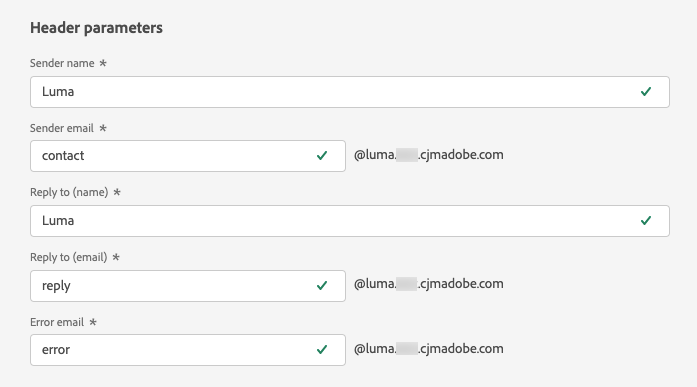
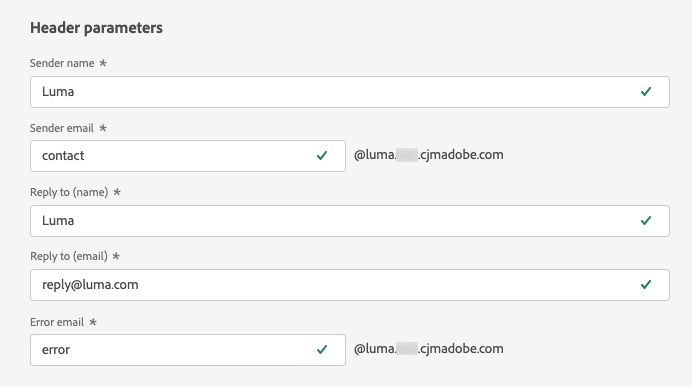
22 w45 (#1068)
* Admin updates

incl. Reply to email address new subsection

* fix video description

* small admin fixes

* Feedback + small changes on Reply email

* Update email-settings.md

PM updates

* Home Table look

diff --git a/help/using/configuration/email-settings.md b/help/using/configuration/email-settings.md
@@ -15,6 +15,16 @@ Define the email settings in the dedicated section of the channel surface (i.e. 
 
 ![](assets/preset-email-settings.png)
 
+The email surface configuration gets picked up for sending communications following the logic below:
+
+* For batch and burst journeys, it does not apply to batch or burst execution that had already started before the email surface configuration is made. The changes will be picked up at the next recurrence or new execution.
+
+* For transactional messages, the change is picked up immediately for the next communication (up to five-minute delay).
+
+>[!NOTE]
+>
+>The updated email surface settings will be automatically picked up in the journey(s) or campaign(s) where the surface is used.
+
 ## Type of email {#email-type}
 
 >[!CONTEXTUALHELP]
@@ -90,25 +100,39 @@ Learn more on adding a header unsubscribe link to your messages in [this section
 
 In the **[!UICONTROL Header parameters]** section, enter the sender names and email addresses associated to the type of emails sent using that surface.
 
->[!CAUTION]
->
->The email addresses must use the current selected [delegated subdomain](about-subdomain-delegation.md).
-
 * **[!UICONTROL Sender name]**: The name of the sender, such as your brand's name.
 
-* **[!UICONTROL Sender email]**: The email address you want to use for your communications. For example, if the delegated subdomain is *marketing.luma.com*, you can use *contact@marketing.luma.com*.
+* **[!UICONTROL Sender email]**: The email address you want to use for your communications.
 
 * **[!UICONTROL Reply to (name)]**: The name that will be used when the recipient clicks the **Reply** button in their email client software.
 
-* **[!UICONTROL Reply to (email)]**: The email address that will be used when the recipient clicks the **Reply** button in their email client software. You must use an address defined on the delegated subdomain (for example, *reply@marketing.luma.com*), otherwise the emails will be dropped.
+* **[!UICONTROL Reply to (email)]**: The email address that will be used when the recipient clicks the **Reply** button in their email client software. [Learn more](#reply-to-email)
 
 * **[!UICONTROL Error email]**: All errors generated by ISPs after a few days of mail being delivered (asynchronous bounces) are received on this address.
+
+>[!CAUTION]
+>
+>The **[!UICONTROL Sender email]** and **[!UICONTROL Error email]** addresses must use the current selected [delegated subdomain](about-subdomain-delegation.md). For example, if the delegated subdomain is *marketing.luma.com*, you can use *contact@marketing.luma.com* and *error@marketing.luma.com*.
 
 ![](assets/preset-header.png)
 
 >[!NOTE]
 >
 >Addresses must begin with a letter (A-Z) and can only contain alpha-numeric characters. You can also use underscore `_`, dot`.` and hyphen `-` characters.
+
+### Reply to email {#reply-to-email}
+
+When defining the **[!UICONTROL Reply to (email)]** address, you can specify any email address provided it is a valid address, in correct format and without any typo.
+
+To ensure proper reply management, follow the recommandations below:
+
+* The inbox used for replies will receive all reply emails, including out-of-office notifications and challenge responses, thus make sure you have a manual or automated process in place to process the emails landing into this inbox.
+
+* Ensure the dedicated inbox has enough reception capacity to receive all the reply emails that are sent using the email surface. If the inbox returns bounces, some replies from your customers may not be received.
+
+* Replies must be processed keeping in mind privacy and compliance obligations as they may contain personally identifiable information (PII).
+
+* Do not mark messages as spam in the reply inbox, as it will impact all the other replies sent to this address.
 
 ### Forward email {#forward-email}
 

diff --git a/help/using/reports/suppression-list.md b/help/using/reports/suppression-list.md
@@ -11,7 +11,7 @@ exl-id: a4653378-b70f-454c-a446-ab4a14d2580a
 ---
 # Suppression list {#suppression-list}
 
-A suppression list consists of email addresses that you want to exclude from your deliveries, because sending to these contacts could hurt your sending reputation and delivery rates.
+A suppression list consists of addresses and domains that you want to exclude from your deliveries, because sending to these contacts could hurt your sending reputation and delivery rates.
 
 The [!DNL Journey Optimizer] suppression list is managed at your own environment level, i.e. for a given sandbox.
 
@@ -19,7 +19,7 @@ It gathers email addresses and domains that are suppressed across all mailings i
 
 >[!NOTE]
 >
->Adobe keeps an updated list of known bad email addresses which have been proven to be detrimental to engagement and mailing reputation, and ensures emails are not delivered to them. This list is managed in a global suppression list which is common across all Adobe customers. The addresses and domain names contained in the global suppression list are hidden. Only the number of excluded recipients is indicated in the delivery reports.
+>Adobe keeps an updated list of known bad addresses which have been proven to be detrimental to engagement and mailing reputation, and ensures emails are not delivered to them. This list is managed in a global suppression list which is common across all Adobe customers. The addresses and domain names contained in the global suppression list are hidden. Only the number of excluded recipients is indicated in the delivery reports.
 
 ## Why a suppression list? {#why-suppression-list}
 
@@ -31,11 +31,11 @@ The recipients whose email addresses are suppressed are automatically excluded f
 
 ## What's on the suppression list? {#what-s-on-suppression-list}
 
-Email addresses are added to the suppression list as follows:
+Addresses are added to the suppression list as follows:
 
-* All **hard bounces** and **spam complaints** automatically send the corresponding email addresses to the suppression list after a single occurrence.
+* All **hard bounces** and **spam complaints** automatically send the corresponding addresses to the suppression list after a single occurrence.
 
-* **Soft bounces** do not immediately send an email address to the suppression list, but they increment an error counter. Several [retries](../configuration/retries.md) are then performed, and when the error counter reaches the threshold, the address is added to the suppression list.
+* **Soft bounces** do not immediately send an address to the suppression list, but they increment an error counter. Several [retries](../configuration/retries.md) are then performed, and when the error counter reaches the threshold, the address is added to the suppression list.
 
 * You can also [**manually** add an address or a domain](../configuration/manage-suppression-list.md#add-addresses-and-domains) to the suppression list.
 

diff --git a/help/using/configuration/channel-surfaces.md b/help/using/configuration/channel-surfaces.md
@@ -17,7 +17,7 @@ With [!DNL Journey Optimizer], you can set up channel surfaces (i.e. message pre
 >
 > * To create, edit and delete channel surfaces, you must have the [Manage channel surface](../administration/high-low-permissions.md#manage-channel-surface) permission.
 >
-> * You must perform the [Email configuration](#configure-email-settings), [Push configuration](../configuration/push-configuration.md) and [SMS configuration](../configuration/sms-configuration.md) steps before creating channel surfaces.
+> * You must perform the [Email configuration](email-settings.md), [Push configuration](../configuration/push-configuration.md) and [SMS configuration](../configuration/sms-configuration.md) steps before creating channel surfaces.
 
 Once channel surfaces have been configured, you will be able to select them when creating messages from a journey or a campaign.
 

diff --git a/help/using/configuration/archiving-support.md b/help/using/configuration/archiving-support.md
@@ -58,15 +58,7 @@ The BCC email address setting is immediately saved and processed at the surface 
 
 ![](assets/preset-bcc-in-msg.png)
 
-However, the BCC address gets picked up for sending communications following the logic below:
-
-* For batch and burst journeys, it does not apply to batch or burst execution that had already started before the BCC setting is made. The change will be picked up at the next recurrence or new execution.
-
-* For transactional messages, the change is picked up immediately for the next communication (up to one minute delay).
-
->[!NOTE]
->
->You do not need to republish your journey for the BCC setting to be picked up.
+However, the BCC address gets picked up for sending communications following the logic described [here](email-settings.md).
 
 ### Recommendations and limitations {#bcc-recommendations-limitations}
 

diff --git a/help/using/personalization/personalize.md b/help/using/personalization/personalize.md
@@ -52,6 +52,6 @@ Learn how to use contextual event information from a journey to personalize a me
 
 >[!VIDEO](https://video.tv.adobe.com/v/334165?quality=12)
 
-Learn how to use contextual event information from a journey to personalize a message.
+Learn how to add profile-based personalization to a message and how to use segment membership as a pre-condition to a personalization block.
 
 >[!VIDEO](https://video.tv.adobe.com/v/334078?quality=12)

diff --git a/help/ajo-home.md b/help/ajo-home.md
@@ -11,7 +11,7 @@ exl-id: 3a1b6c61-82df-421c-98d8-2af4f2a5e0de
 ![](using/assets/do-not-localize/banner-cjm.jpg) 
 
 <table style="table-layout:fixed">
-<tr>
+<tr style="border: 0;">
   <td>
     <div><strong>Get started</strong>
     </div>
@@ -97,7 +97,7 @@ exl-id: 3a1b6c61-82df-421c-98d8-2af4f2a5e0de
     </li>
     </div>
   </td>
-   <td>
+   <td align="right">
    <div><strong>Direct links to key resources</strong>
     </div>
     <p>
